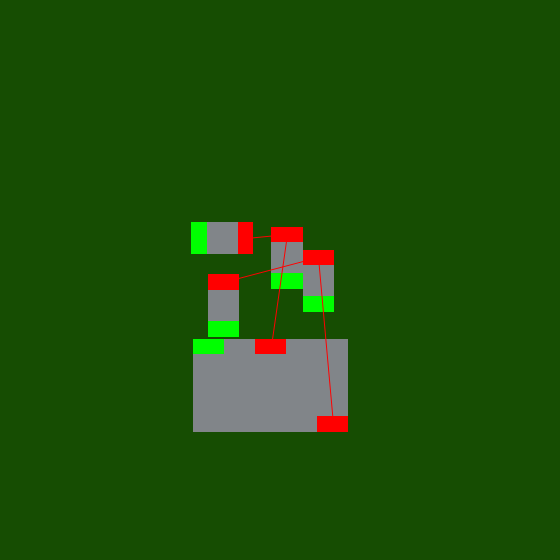
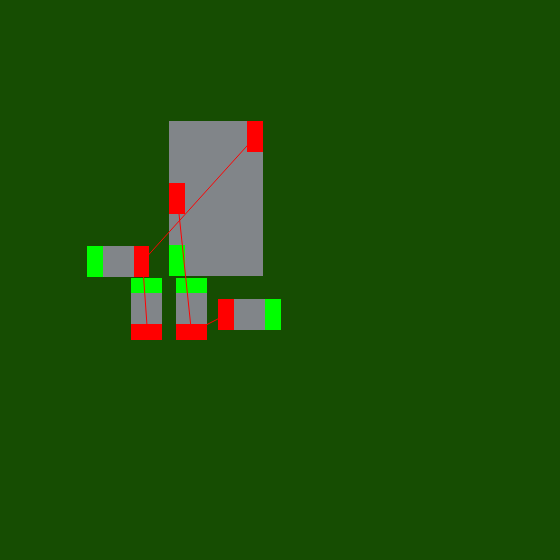
NEEDS A LOT OF WORKING BUT WORKING FASTER?? NEED TO TALK TO BART ABOUT RAND

Changed region(s): [[0.1518, 0.2125, 0.6375, 0.7893]]

diff --git a/pcb-layout/src/ga.rs b/pcb-layout/src/ga.rs
@@ -10,6 +10,7 @@ use std::collections::BTreeMap;
 use std::time::Instant;
 
 use std::thread;
+use rayon::prelude::*;
 
 
 fn random_rotation(rng: &mut ThreadRng) -> i32 {
@@ -34,6 +35,7 @@ fn draw_nets( pins_by_net : BTreeMap<i32, Vec<(f64,f64)>>)  -> Vec<PathElement<(
 }
 /* 
  */
+#[derive(Clone, Debug)]
 pub struct Individual {
     comp_list: Vec<Component>,
     pl_area: Bbox,
@@ -374,34 +376,48 @@ pub fn genetic_algorithim(pl: Placement, pop_size: u32, num_generations: u32, ou
         println!("Original Score: {}", id.score());
     }
 
-    let now = Instant::now();
+    let now = Instant::now();/*
     for _ in 0..num_generations {
-    thread::scope(|scope| {
-        for ind_vec in population.chunks_mut((pop_size/nthreads).try_into().unwrap()){
-            scope.spawn( || {
-                for ind in ind_vec {
-                    if ind.mutate(){
-                        ind.score();
-                    }
+        population.par_iter_mut().for_each(|ind| {
+                if ind.mutate(){
+                    ind.score();
                 }
-            });
+        });
 
-        }
-    });
         //elitist_selection(&mut population);
         selection_algo(&mut population);
         scores.push(population[0].fitness);
+    }*/
+    // Clone the original population into n separate populations
+    let num_populations = 3;
+    for _ in 0..num_generations/num_populations{
+
+    let mut populations: Vec<Vec<Individual>>  = (0..num_populations).map(|_|  population.clone()).collect();
+
+    // Apply evolution in parallel to all populations
+    let mut all_scores: Vec<_> = populations
+        .par_iter_mut()
+        .map(|population| {
+            population.par_iter_mut().for_each(|ind| {
+                    if ind.mutate(){
+                        ind.score();
+                    }
+            });
+
+            selection_algo(population);
+            population 
+        }).collect();
+
+    population = all_scores.iter().flat_map(|p| (**p).clone()).collect();
+    selection_algo(&mut population);
+    population.truncate(pop_size.try_into().unwrap());
     }
-    /*
-     */
+    println!("{} {}", population.len(), pop_size);
     let id = &mut population[0];
     if output {
         println!("New Score: {}", id.score());
 
-        id.plot(
-            &format!("test-{}x{}.png", pop_size, num_generations),
-            &pl.net_map,
-        );
+        
         let elapsed_time = now.elapsed();
         println!(
             "\nTest took {}.{} seconds.",
@@ -409,6 +425,10 @@ pub fn genetic_algorithim(pl: Placement, pop_size: u32, num_generations: u32, ou
             elapsed_time.subsec_millis()
         );
         println!("\n{}", "+++++++Test Over+++++++".to_string().green());
+        id.plot(
+            &format!("test-{}x{}.png", pop_size, num_generations),
+            &pl.net_map,
+        );
     }
 
     scores
